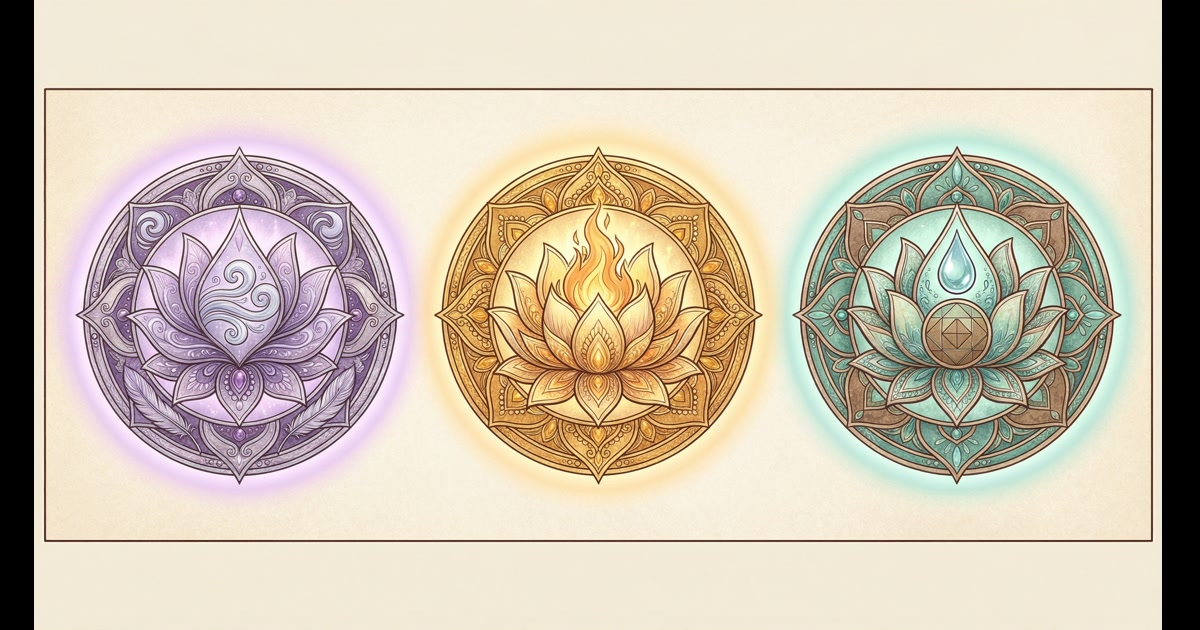
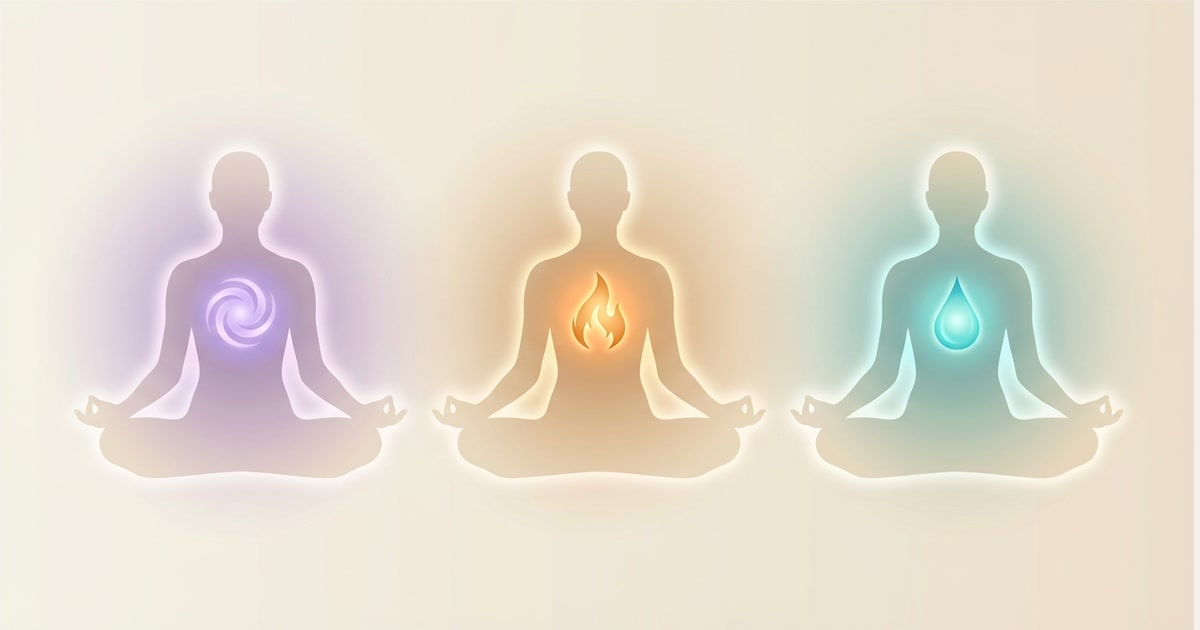
update Dosha OG image with meditation silhouettes, fix AGENTS.md to use g3pip

diff --git a/AGENTS.md b/AGENTS.md
@@ -80,18 +80,31 @@
 - Đảm bảo iOS Safari compatible: Web Share API, `:has()` fallback, smooth scroll
 
 ### 2. Tạo OG Image (BẮT BUỘC sau khi tạo quiz)
-```bash
-# Dùng illust_sh để tạo ảnh
-cd ~/mx/illust_sh
-./illust_v2.1.sh "Mô tả ảnh OG cho quiz [tên quiz]..." \
-  --format facebook --quality 2K --work-dir [tên-quiz]-og
 
-# Resize về 1200x630 và optimize
-cd [thư-mục-assets]
-ffmpeg -y -i ~/mx/illust_sh/[tên-quiz]-og/output.png \
-  -vf "scale=1200:630:force_original_aspect_ratio=decrease,pad=1200:630:(ow-iw)/2:(oh-ih)/2" \
+**Dùng g3pip (gemini-3-pro-image-preview) từ pptx_sh:**
+```bash
+# Load API key
+source ~/mx/pptx_sh/keys.sh
+
+# Generate image với g3pip
+curl -s -X POST \
+  "https://generativelanguage.googleapis.com/v1beta/models/gemini-3-pro-image-preview:generateContent" \
+  -H "x-goog-api-key: $GEMINI_API_KEY" \
+  -H "Content-Type: application/json" \
+  -d '{"contents":[{"parts":[{"text":"PROMPT_MÔ_TẢ_ẢNH"}]}],"generationConfig":{"responseModalities":["IMAGE"]}}' \
+  | jq -r '.candidates[0].content.parts[0].inlineData.data' | base64 -d > output.jpg
+
+# Resize về 1200x630
+ffmpeg -y -i output.jpg \
+  -vf "scale=1200:630:force_original_aspect_ratio=decrease,pad=1200:630:(ow-iw)/2:(oh-ih)/2:color=#F5F0E8" \
   -q:v 2 og-[tên-quiz].jpg
 ```
+
+**Style OG image:**
+- Background cream sạch, KHÔNG border/frame
+- KHÔNG text trên ảnh
+- Biểu tượng elegant với soft glow
+- Tham khảo: `assets/og-chakra.jpg`, `assets/og-energy.jpg`
 
 ### 3. Cập nhật meta tags
 ```html
